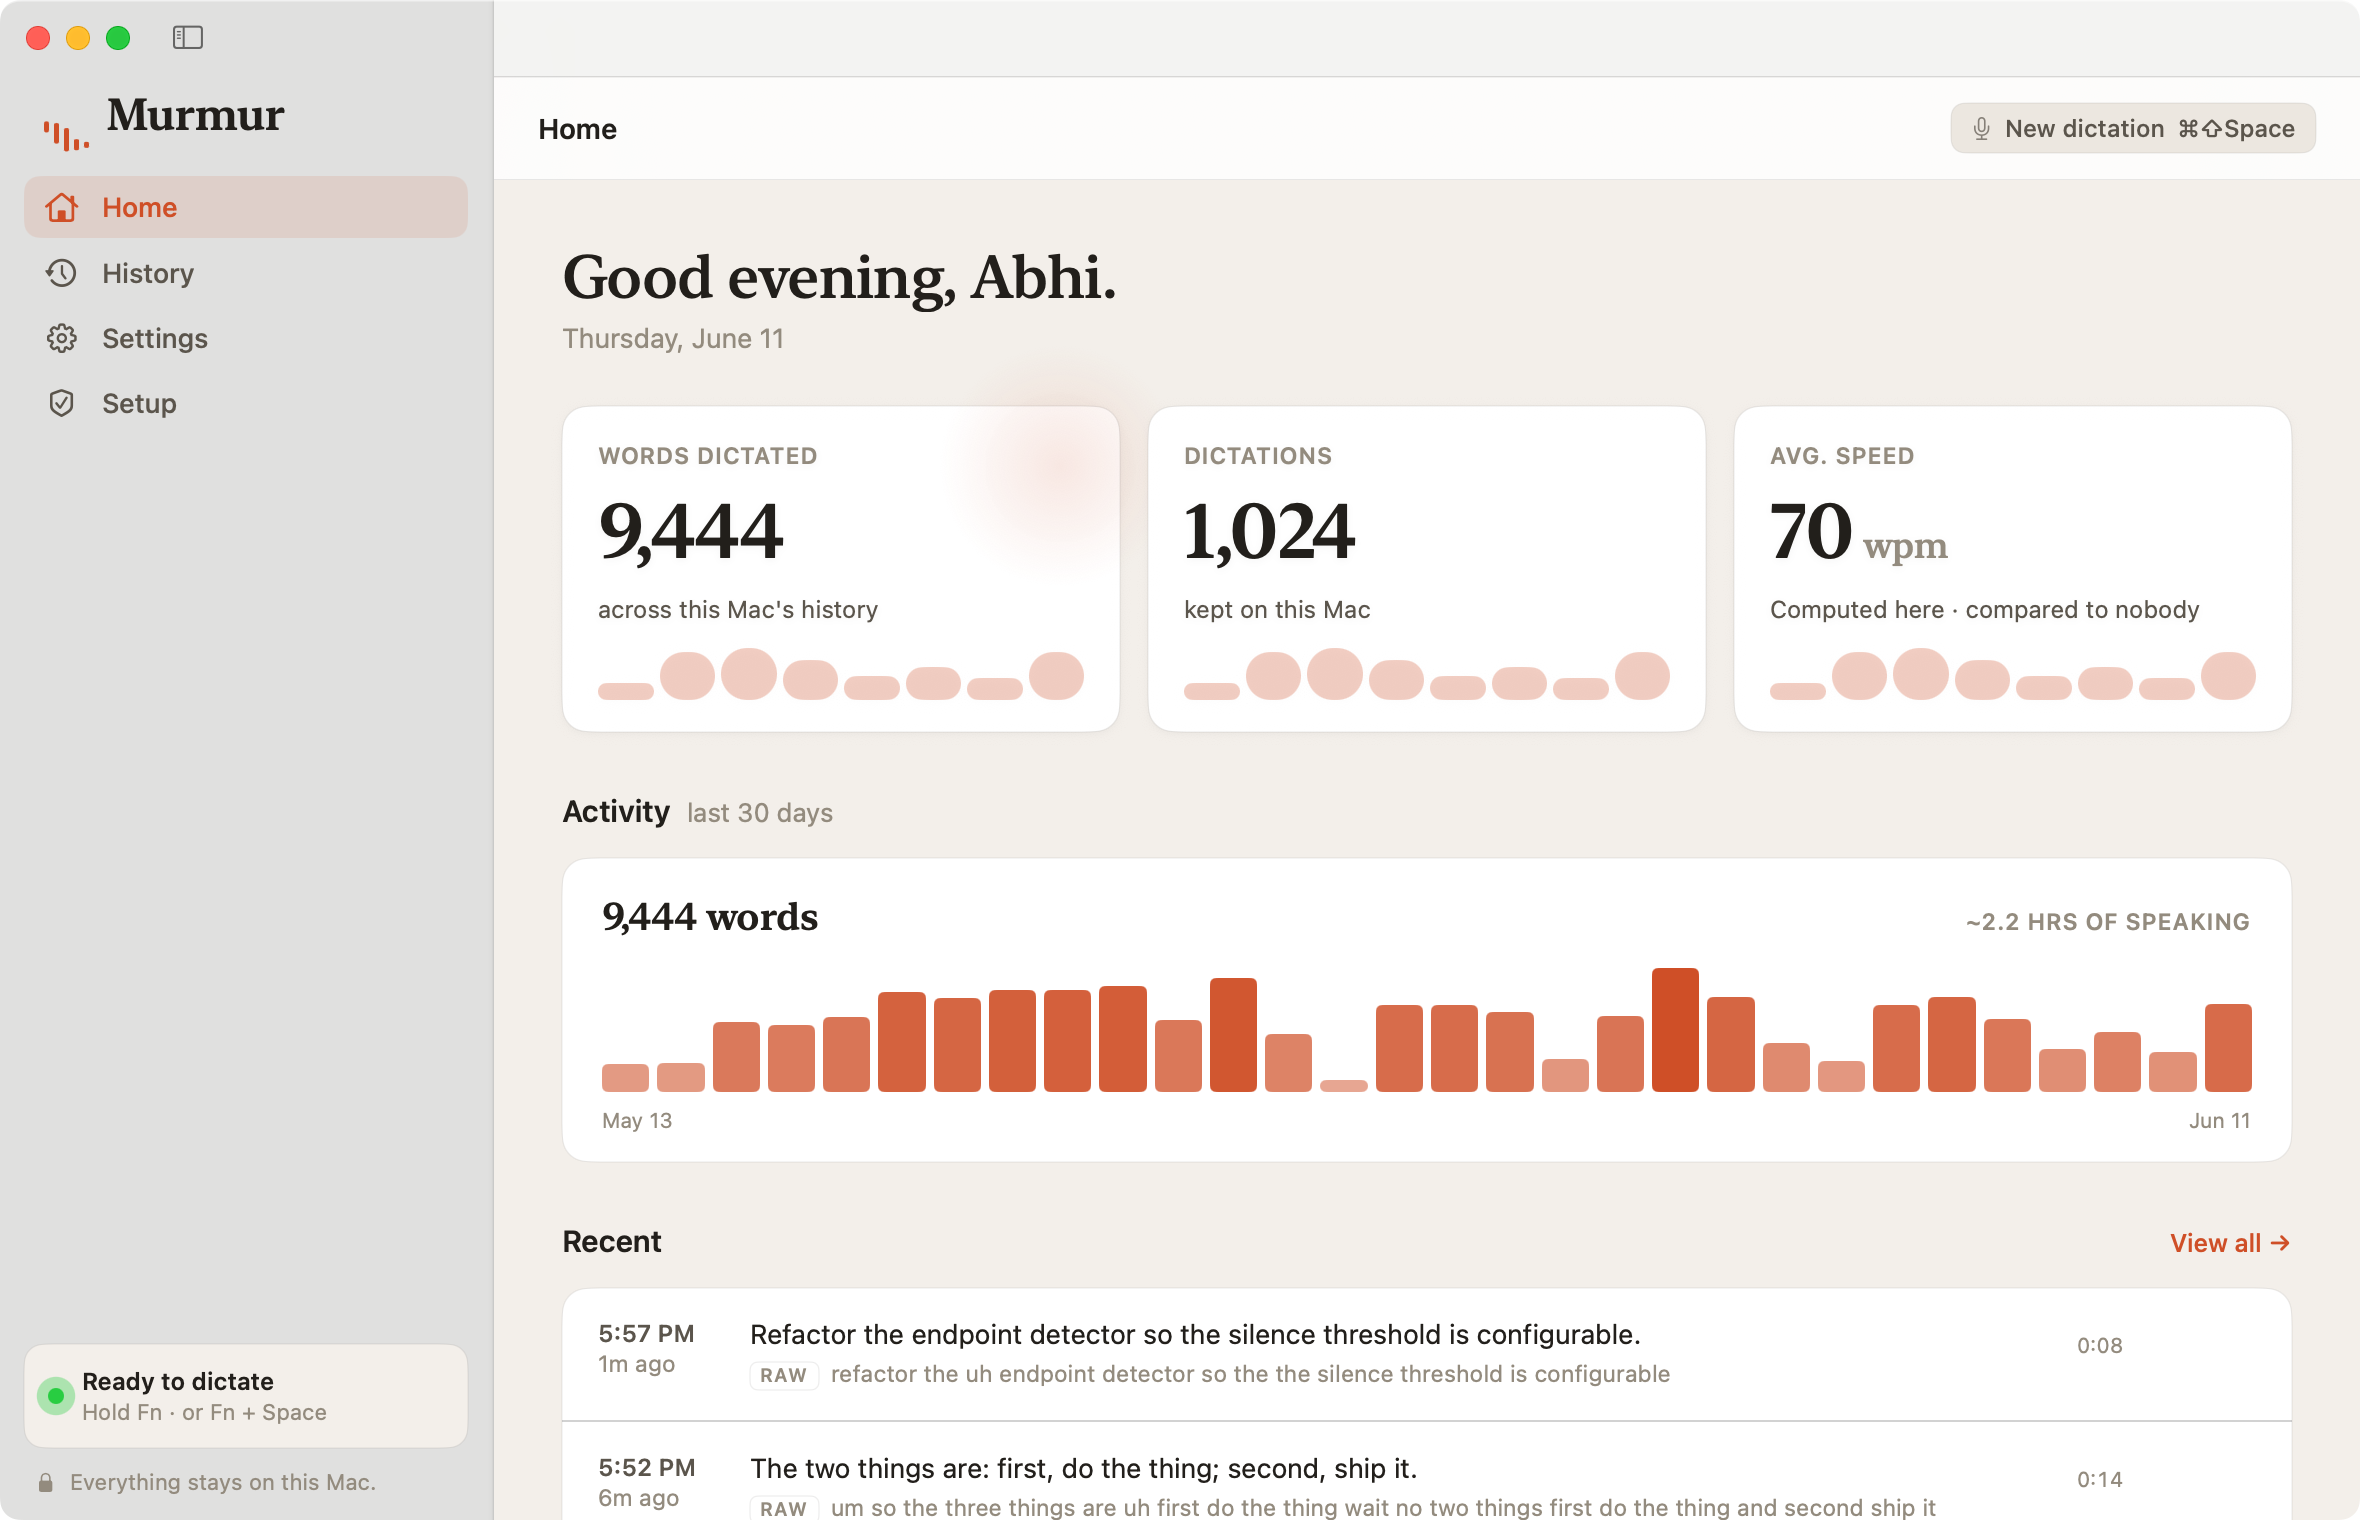
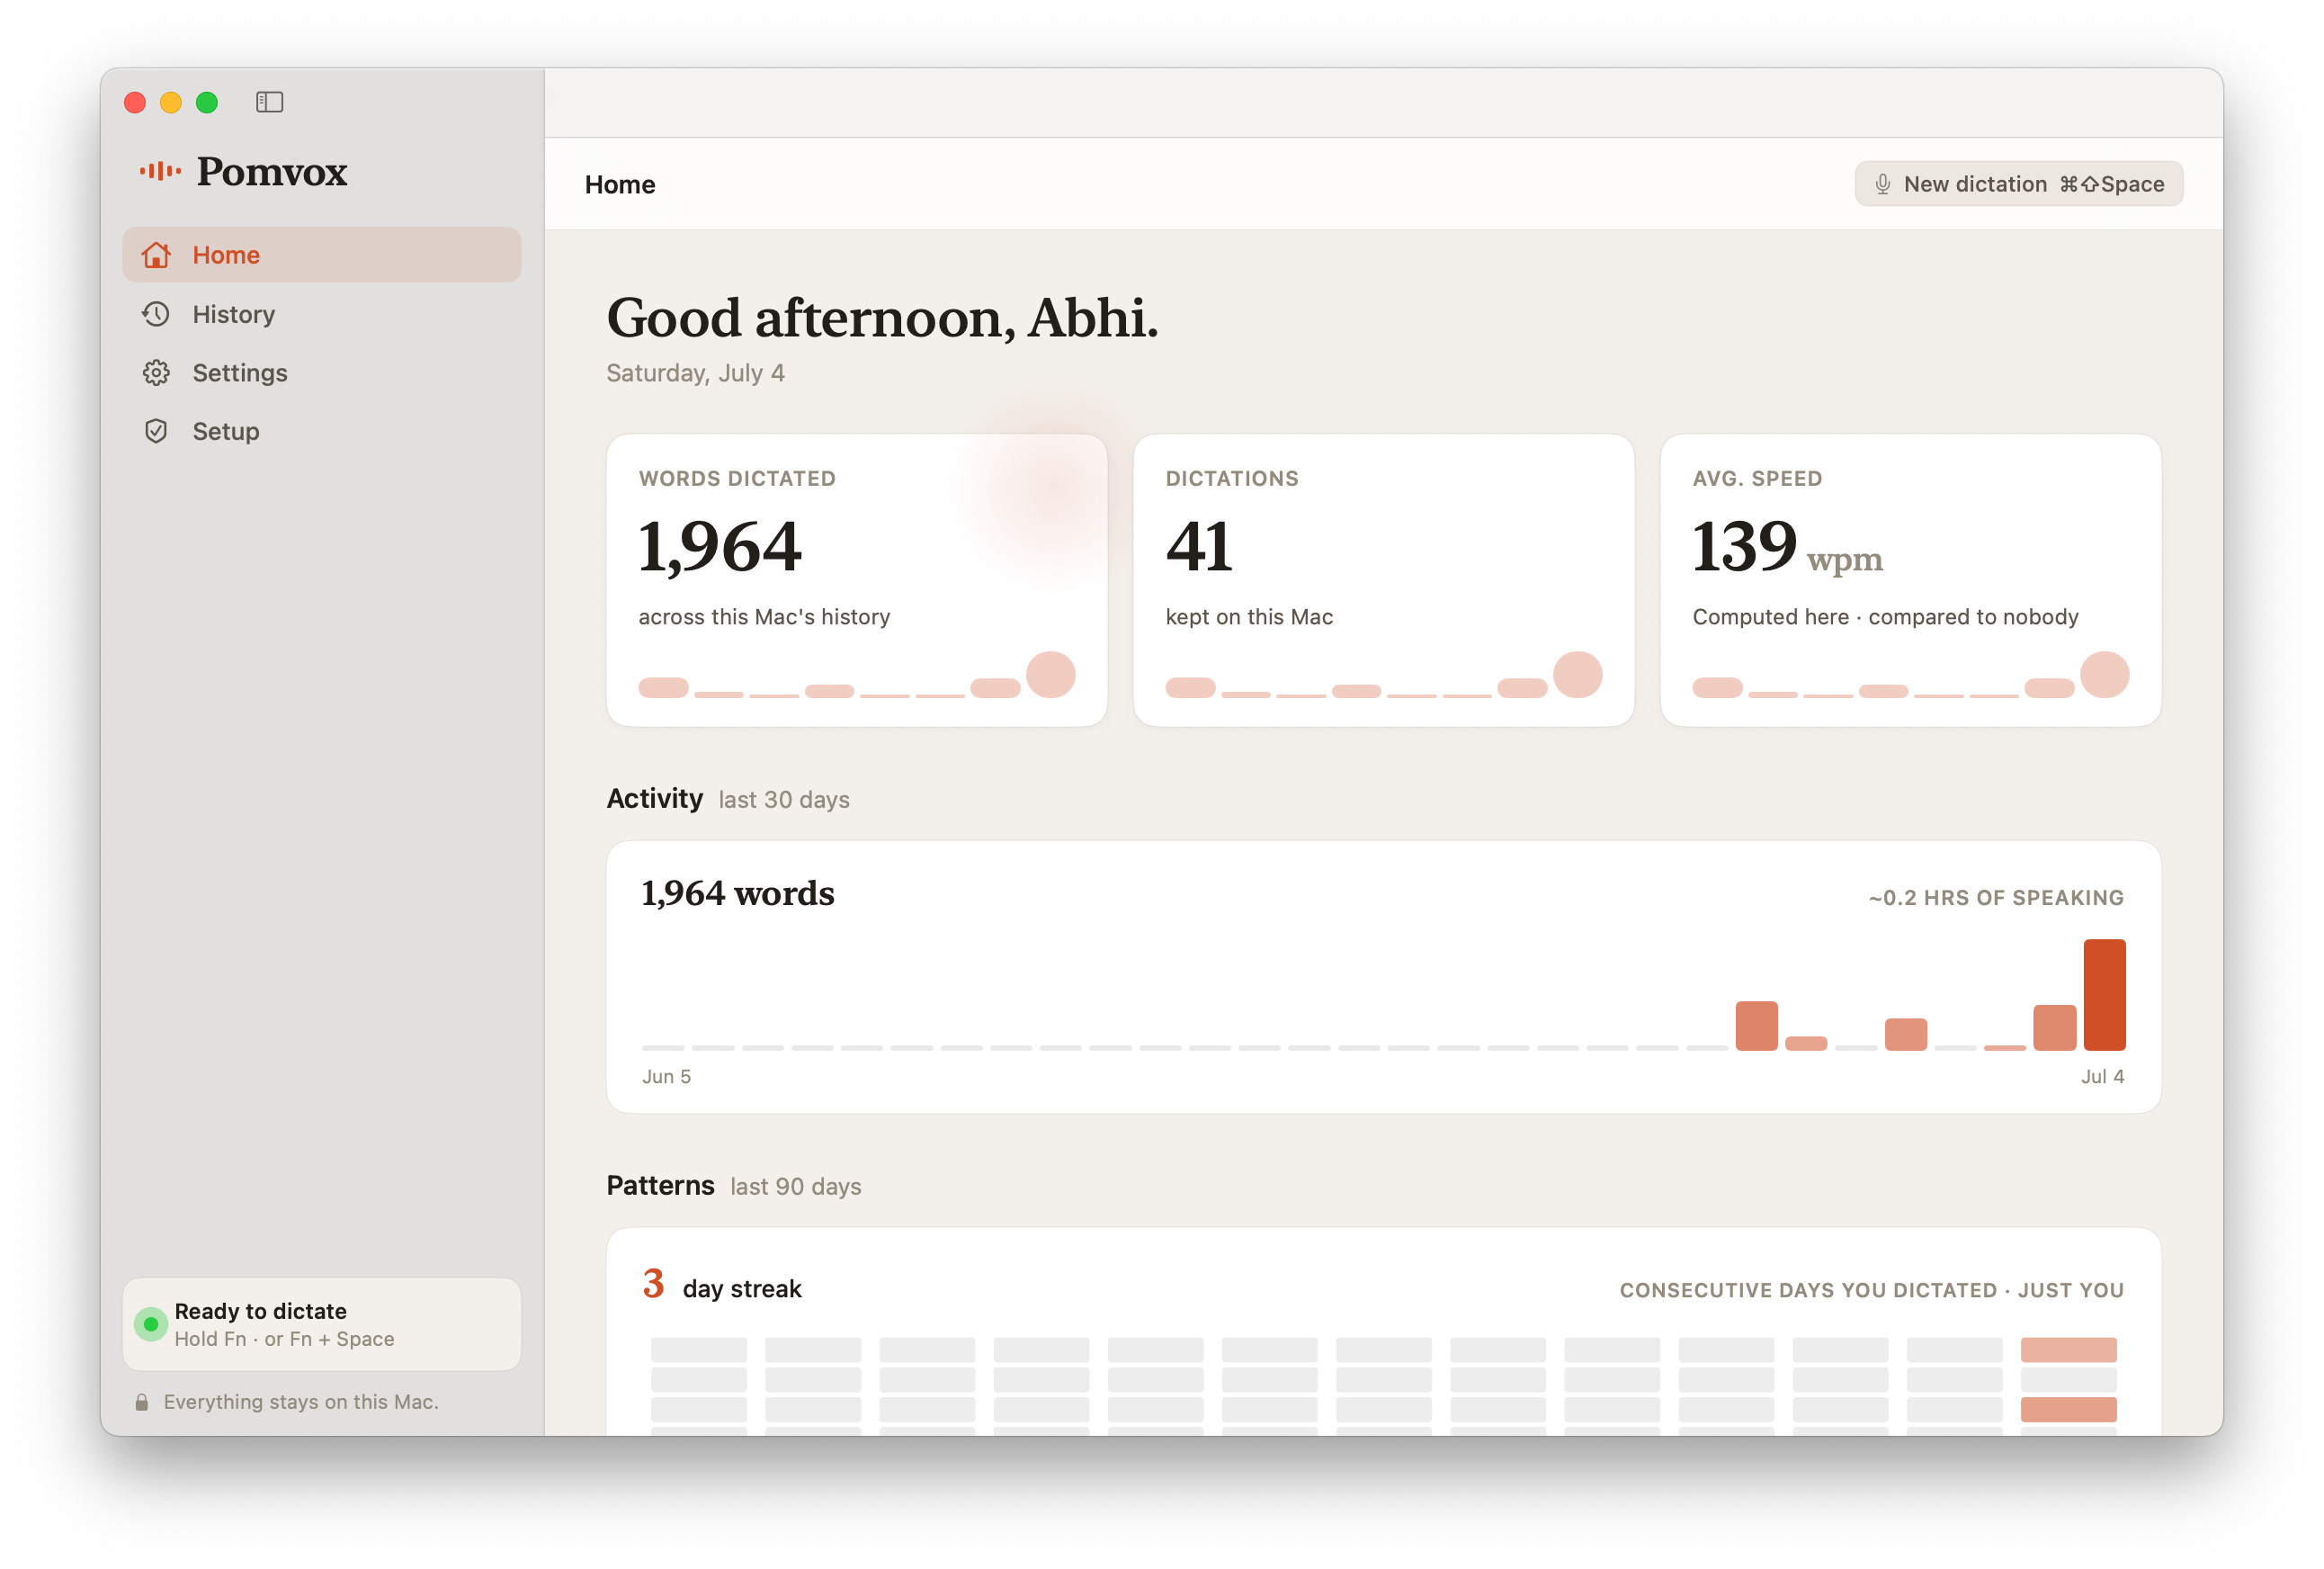
docs(readme): badges, Hub screenshot, and Homebrew install (#44)
* docs(readme): add status badges and a Hub screenshot

Badges for latest release, platform (macOS 14+ / Apple Silicon), license, and
downloads; embed the Hub Home view under the intro as a demo image.

Note: docs/design/hub-real-home.png still carries the pre-rename 'Murmur'
branding and must be replaced with a current Pomvox capture before the repo
goes public.

* docs(readme): add Homebrew cask install instructions

brew install --cask abhiram304/pomvox/pomvox, via the new
abhiram304/homebrew-pomvox tap (Phase 3).

* docs(readme): replace Hub screenshot with current Pomvox-branded capture

The prior image still showed the pre-rename 'Murmur' name. This is a fresh
Home-view capture branded 'Pomvox', resolving the go-public blocker on #44.

* docs(readme): use a floating-window Hub capture for the hero image

Windowed shot (traffic lights, rounded corners, drop shadow) reads better as a
README hero than the edge-to-edge full-screen frame.

* docs(readme): add maintainer credit footer

---------

diff --git a/README.md b/README.md
@@ -1,5 +1,10 @@
 # Pomvox
 
+[![Latest release](https://img.shields.io/github/v/release/abhiram304/pomvox?color=e2543a)](https://github.com/abhiram304/pomvox/releases/latest)
+[![Platform](https://img.shields.io/badge/platform-macOS%2014%2B%20%7C%20Apple%20Silicon-informational)](#requirements)
+[![License: MIT](https://img.shields.io/badge/license-MIT-blue.svg)](LICENSE)
+[![Downloads](https://img.shields.io/github/downloads/abhiram304/pomvox/total?color=555)](https://github.com/abhiram304/pomvox/releases)
+
 Fully local, privacy-first voice dictation for macOS on Apple Silicon. Hold a
 hotkey, speak, and the transcript is inserted into whatever text field is
 focused — in any app. Speech-to-text runs on the Neural Engine and an optional
@@ -7,6 +12,11 @@ cleanup pass runs a local LLM on the GPU. **Your voice and transcripts never
 leave your machine.** The only network calls are the one-time model download
 from Hugging Face and — if you opt in — anonymous, content-free usage stats
 (off by default; toggle in Settings → Privacy).
+
+<p align="center">
+  <img src="docs/design/hub-real-home.png" width="820"
+       alt="The Pomvox Hub — Home view showing dictation stats, a 30-day activity strip, and recent raw→clean transcripts">
+</p>
 
 Pomvox is a native SwiftUI menu-bar app (`Pomvox.app`): live two-tone draft as
 you speak, a Hub window with your dictation history and settings, and a Setup
@@ -35,13 +45,26 @@ and [CONTRIBUTING.md](CONTRIBUTING.md) to get involved.
 
 ## Download
 
+### Homebrew
+
+```sh
+brew install --cask abhiram304/pomvox/pomvox
+```
+
+This taps [`abhiram304/homebrew-pomvox`](https://github.com/abhiram304/homebrew-pomvox)
+and installs the same notarized `Pomvox.app` into `/Applications`. Upgrade later
+with `brew upgrade --cask pomvox`.
+
+### Direct download
+
 Grab the latest **notarized** `Pomvox.dmg` from the
 [Releases page](https://github.com/abhiram304/pomvox/releases/latest), open it,
 and drag **Pomvox** to Applications. It's signed with a Developer ID and notarized
-by Apple, so it opens with no right-click dance. Then launch it and grant the
-three permissions in **Setup** (Microphone, Input Monitoring, Accessibility).
+by Apple, so it opens with no right-click dance.
 
-Requires an Apple Silicon Mac on macOS 14+.
+Either way, launch Pomvox and grant the three permissions in **Setup**
+(Microphone, Input Monitoring, Accessibility). Requires an Apple Silicon Mac on
+macOS 14+.
 
 ## Install (build from source)
 
@@ -196,3 +219,8 @@ documented in the script header. Debug builds are untouched: same self-signed
 identity, hardened runtime off, so TCC grants survive iterative work. The first
 launch of a Release build re-prompts the three permissions once (the code
 identity changed).
+
+---
+
+Built by [Abhi Ram Salammagari](https://www.abhiramsalammagari.com). Licensed
+under the [MIT License](LICENSE).